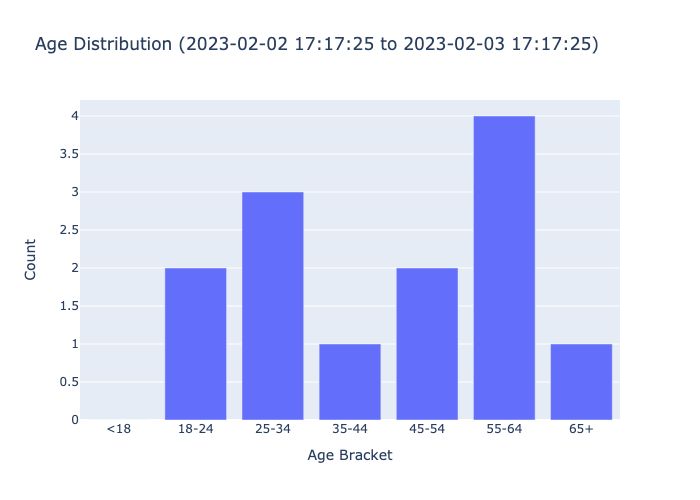
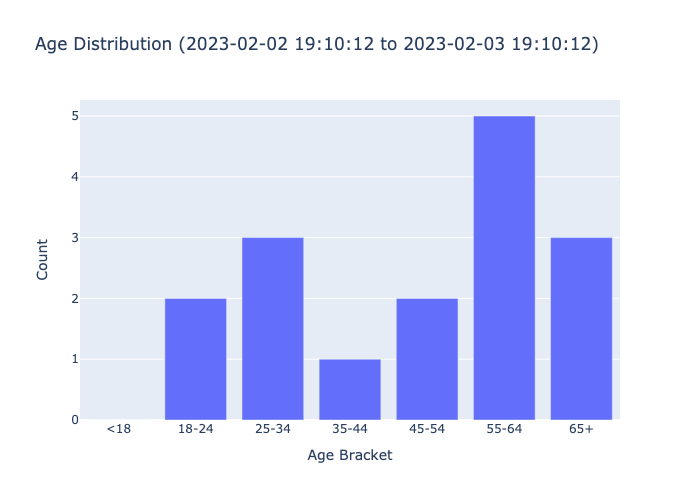
finalised the html script

diff --git a/Daily_Report/report.html b/Daily_Report/report.html
@@ -1,0 +1,57 @@
+<!DOCTYPE html>
+    <html>
+    <head>
+        <title>Daily Report</title>
+    </head>
+    <h1 style="text-align: center;">Deloton Daily Report for 2023-2-4</h1>
+    <hr>
+    <div style="display: flex;">
+        <div style="flex: 25%; text-align: center; padding: 5px;">
+            <ul>
+                <h2>Total Values</h2>
+                Total Rides: <b>168</b> <br>
+                Total Duration:<b>85425 s</b> <br>
+                Total Power: <b>4096115.74</b> <br>
+            </ul>
+        </div>
+
+        <div style="flex: 25%; text-align: center; padding: 5px;">
+            <ul>
+                <h2>Average Values</h2>
+                Average Duration: <b>508.48 s</b> <br>
+                Average RPM: <b>46.48</b> <br>
+                Average Power: <b>48.14</b> <br>
+                Average Resistance: <b>40.97</b> <br>
+                Average Heart Rate: <b>103.7 bpm</b> <br>
+            </ul>
+        </div>
+
+        <div style="flex: 25%; text-align: center; padding: 5px;">
+            <ul>
+                <h2>Ages</h2>
+                <18: <b>0</b> <br>
+                18-24: <b>4</b> <br>
+                25-34: <b>4</b> <br>
+                35-44: <b>6</b> <br>
+                45-54: <b>7</b> <br>
+                55-64: <b>4</b> <br>
+                65+: <b>6</b> <br>
+            </ul>
+        </div>
+
+        <div style="flex: 25%; text-align: center; padding: 5px;">
+            <ul> <h2>Genders</h2>Female: <b>17</b> <br>Male: <b>14</b> <br></li>
+        </div>
+    </div>
+
+    <div style="display: flex;">
+        <div style="flex: 50%; text-align: center; padding: 5px;">
+            <img src="Data/gender_distribution.jpg" width=450px height=325px alt="gender_distribution">
+        </div>
+        <div style="flex: 50%; text-align: center; padding: 5px;">
+            <img src="Data/age_distribution.jpg" width=450px height=325px alt="age_distribution">
+        </div>
+    </div>
+    
+    </html>
+    

diff --git a/Daily_Report/html_script.py b/Daily_Report/html_script.py
@@ -7,10 +7,10 @@ TODAY = datetime.datetime.now()
 def gender_list(genders: dict) -> str:
     """Creates a HTML list element that contains the genders and how many riders are of that gender
     """
-    html_code = """<ul style="list-style-type:square;"> <h2>Genders</h2>"""
+    html_code = """<ul> <h2>Genders</h2>"""
 
     for gender in genders.keys():
-        html_code += f"<li>{gender[0].upper() + gender[1:]}: {genders[gender]}</li>"
+        html_code += f"{gender[0].upper() + gender[1:]}: <b>{genders[gender]}</b> <br>"
     html_code += "</li>"
 
     return html_code
@@ -27,41 +27,54 @@ def make_html_report(
     </head>
     <h1 style="text-align: center;">Deloton Daily Report for {TODAY.year}-{TODAY.month}-{TODAY.day}</h1>
     <hr>
+    <div style="display: flex;">
+        <div style="flex: 25%; text-align: center; padding: 5px;">
+            <ul>
+                <h2>Total Values</h2>
+                Total Rides: <b>{num_of_rides}</b> <br>
+                Total Duration:<b>{round(totals["total_duration"])} s</b> <br>
+                Total Power: <b>{round(totals["total_power"], 2)}</b> <br>
+            </ul>
+        </div>
+
+        <div style="flex: 25%; text-align: center; padding: 5px;">
+            <ul>
+                <h2>Average Values</h2>
+                Average Duration: <b>{round(averages["avg_duration"], 2)} s</b> <br>
+                Average RPM: <b>{round(averages["avg_rpm"], 2)}</b> <br>
+                Average Power: <b>{round(averages["avg_power"], 2)}</b> <br>
+                Average Resistance: <b>{round(averages["avg_resistance"], 2)}</b> <br>
+                Average Heart Rate: <b>{round(averages["avg_heart_rate"], 2)} bpm</b> <br>
+            </ul>
+        </div>
+
+        <div style="flex: 25%; text-align: center; padding: 5px;">
+            <ul>
+                <h2>Ages</h2>
+                <18: <b>{ages["<18"]}</b> <br>
+                18-24: <b>{ages["18-24"]}</b> <br>
+                25-34: <b>{ages["25-34"]}</b> <br>
+                35-44: <b>{ages["35-44"]}</b> <br>
+                45-54: <b>{ages["45-54"]}</b> <br>
+                55-64: <b>{ages["55-64"]}</b> <br>
+                65+: <b>{ages["65+"]}</b> <br>
+            </ul>
+        </div>
+
+        <div style="flex: 25%; text-align: center; padding: 5px;">
+            {gender_list(genders)}
+        </div>
+    </div>
 
     <div style="display: flex;">
-        <body>
-                <ul style="list-style-type:square;">
-                    <h2>Total Values</h2>
-                    <li>Total Rides: {num_of_rides}</li>
-                    <li>Total Duration: {round(totals["total_duration"])} s</li>
-                    <li>Total Power: {round(totals["total_power"], 2)}</li>
-                </ul>
-            <ul style="list-style-type:square;">
-                <h2>Average Values</h2>   
-                <li>Average Duration: {round(averages["avg_duration"], 2)} s</li>
-                <li>Average RPM: {round(averages["avg_rpm"], 2)}</li>
-                <li>Average Power: {round(averages["avg_power"], 2)}</li>
-                <li>Average Resistance: {round(averages["avg_resistance"], 2)}</li>
-                <li>Average Heart Rate: {round(averages["avg_heart_rate"], 2)} bpm</li>
-            </ul>
-            
-            <ul style="list-style-type:square;">
-                <h2>Ages</h2>
-                <li><18: {ages["<18"]}</li>
-                <li>18-24: {ages["18-24"]}</li>
-                <li>25-34: {ages["25-34"]}</li>
-                <li>35-44: {ages["35-44"]}</li>
-                <li>45-54: {ages["45-54"]}</li>
-                <li>55-64: {ages["55-64"]}</li>
-                <li>65+: {ages["65+"]}</li>
-            </ul>
-            {gender_list(genders)}
-        </body>
-    </div>
-        <div style="display: table-row">
-            <img src="Data/age_distribution.png" alt="age_distribution" />
-            <img src="Data/gender_distribution.png" alt="gender_distribution" />
+        <div style="flex: 50%; text-align: center; padding: 5px;">
+            <img src="Data/gender_distribution.jpg" width=450px height=325px alt="gender_distribution">
         </div>
+        <div style="flex: 50%; text-align: center; padding: 5px;">
+            <img src="Data/age_distribution.jpg" width=450px height=325px alt="age_distribution">
+        </div>
+    </div>
+    
     </html>
     """
 

diff --git a/Daily_Report/data_extraction.py b/Daily_Report/data_extraction.py
@@ -60,7 +60,7 @@ def gender_plot(data: dict) -> px.pie:
         }, title=f"Gender Distribution ({LAST_DAY} to {TODAY_FORMATTED})"
     )
 
-    return fig.write_image("Data/gender_distribution.png")
+    return fig.write_image("Data/gender_distribution.jpg")
 
 
 def age_from_dob(born: datetime.date) -> int:
@@ -115,7 +115,7 @@ def age_plot(data: dict) -> px.bar:
                  title=f"Age Distribution ({LAST_DAY} to {TODAY_FORMATTED})"
                  )
 
-    return fig.write_image("Data/age_distribution.png")
+    return fig.write_image("Data/age_distribution.jpg")
 
 
 def extract_averages(df: pd.DataFrame) -> dict:
